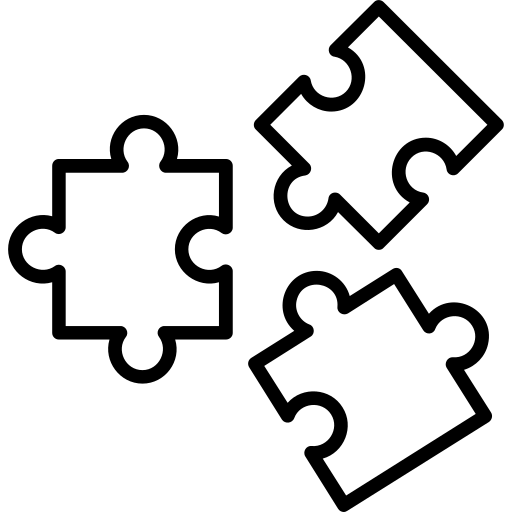
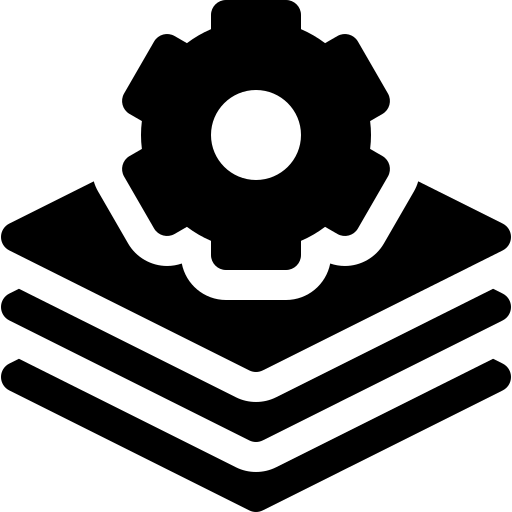
add details

diff --git a/main.tex b/main.tex
@@ -7,8 +7,9 @@
 % withoutsidebar
 \usepackage[utf8]{inputenc}
 \usepackage[default]{raleway}
+\usepackage{amsmath}
 \usepackage[margin=1cm, a4paper]{geometry}
-
+\usepackage{makecell}
 
 %------------------------------------------------------------------ Variablen
 
@@ -24,7 +25,6 @@
 
 \pagestyle{empty}
 \begin{document}
-
 
 \thispagestyle{empty}
 %-------------------------------------------------------------
@@ -48,7 +48,6 @@
 
 % 0.9,0.9,0.9 -- 0.8,0.8,0.8
 
-
 \footnotesize
 {\setasidefontcolour
     \flushright
@@ -56,34 +55,31 @@
         \roundpic{angelo.jpg}
     \end{center}
 
-    \bg{cvgreen}{white}{Biografia}\\[0.5em]
-
-    \bigskip
-
     \bg{cvgreen}{white}{Info} \\[0.5em]
     {\small
-        \textbf{Angelo Filaseta}\\
+    \textbf{Angelo Filaseta}\\
     }
     \vspace{0.5em}
     {\footnotesize
-        \icon{\faBirthdayCake}{cvgreen}{} 10 Dicembre 1998\\
-        \icon{\faEnvelopeO}{cvgreen}{} Via Chiaramonti 35 \\
-        \icon{\faMapMarker}{cvgreen}{} Cesena (FC) \\
-        \icon{\faPhone}{cvgreen}{} [phone redacted] \\
-        \icon{\faAt}{cvgreen}{} \protect\url{[email redacted]}
+    \icon{\faBirthdayCake}{cvgreen}{} 10 Dicembre 1998\\
+    \icon{\faEnvelopeO}{cvgreen}{} Via Chiaramonti 35 \\
+    \icon{\faMapMarker}{cvgreen}{} Cesena (FC) \\
+    \icon{\faPhone}{cvgreen}{} [phone redacted] \\
+    \icon{\faAt}{cvgreen}{} \protect\url{[email redacted]}
+    \icon{\faCar}{cvgreen}{} \textit{AM, B}
     }
+    \bigskip
 
+    \bg{cvgreen}{white}{Biografia}\\[0.5em]
+    Sono da sempre stato affascinato dalla tecnologia e la logica\\
+    Ho partecipato alla creazione e alla gestione di progetti in numerosi ambiti,
+    utilizzando una vasta gamma di tecnologie e linguaggi di programmazione.\\
+    Durante la mia permanenza in Università ho anche pubblicatoqualche articolo scientifico.\\
     \bigskip
 
     \bg{cvgreen}{white}{Area di Specializzazione} \\[0.5em]
+    Software Architecture ~•~ DevOps ~•~ Design Pattern ~•~ CI \& CD ~•~ Strong Typing ~•~ Object Oriented Programming (OOP) ~•~ Functional Programming ~•~
 
-    Privateering ~•~ Bucaneering ~•~ Parler ~•~ Rum
-
-    \bigskip
-
-    \bg{cvgreen}{white}{Interests}\\[0.5em]
-
-    \lorem
     \bigskip
 
     \bg{cvgreen}{white}{Tecnologie di punta}\\[0.5em]
@@ -97,8 +93,14 @@
     {\footnotesize
     \includegraphics[width=25px]{react}
     }
-    \vspace{4em}
+    \bigskip
 
+    \bg{cvgreen}{white}{Lingue}\\[0.5em]
+    \textbf{Italiano}: Madrelingua\\
+    \\
+    \textbf{Inglese}: B2
+
+    \vspace{4em}
     \infobubble{\faGithub}{cvgreen}{white}{AngeloFilaseta}
     \infobubble{\faLinkedin}{cvgreen}{white}{angelofilaseta}
     \phantom{turn the page}
@@ -109,59 +111,52 @@
 \switchcolumn
 
 \small
-\section*{Short Resumé}
+\section*{Esperienze Lavorative}
 
 \begin{tabular}{r| p{0.5\textwidth} c}
-    \cvevent{2023--2025}{Assegnista di Ricerca - Università di Bologna}{CESENA (FC)}{Emilia Romagna - Italia \color{cvred}}{
-        Ho partecipato a un progetto di ricerca mirato allo
+    \cvevent{\makecell{$\text{2023}\\ \Downarrow \\\text{2025}$}}
+    {\normalsize{Assegnista di Ricerca - Università di Bologna}}{CESENA (FC)}{Emilia Romagna - Italia \color{cvred}}
+    {Nel contesto del progetto \textit{WOOD 4.0}, la mia ricerca si è basata sullo
         \textbf{studio, progettazione e validazione di un prototipo di piattaforma digitale per l'aggiornamento remoto del software su macchine industriali.}
-    }{research.png}
+    }{lens.png}
     \\
-    \cvevent{2023--2025}{Professore a Contratto - Università di Bologna{\newline}PROGETTAZIONE E SVILUPPO DEL SOFTWARE}{CESENA (FC)}{Emilia Romagna - Italia \color{cvred}}{
-        Ho tenuto lezioni e laboratori sul paradigma di programmazione \textbf{Object-Oriented}, utilizzando \textbf{Java} come linguaggio di riferimento.
+    \cvevent{\makecell{$\text{2023}\\ \Downarrow \\\text{2025}$}
+    }{\normalsize{Professore a Contratto - Università di Bologna}{\newline}\footnotesize PROGETTAZIONE E SVILUPPO DEL SOFTWARE}{CESENA (FC)}{Emilia Romagna - Italia \color{cvred}}
+    {Lezioni e laboratori sul paradigma di programmazione \textbf{Object-Oriented}, utilizzando \textbf{Java} come linguaggio di riferimento.
         Ulteriori approfondimenti sono stati dedicati ai principali \textbf{pattern di progettazione}, al ciclo di vita del software e alle tecniche di sviluppo.
     }{teaching.png}
     \\
-    \cvevent{2023}{Full Stack Developer - SCM Group SPA}{Rimini (RN)}{Emilia Romagna - Italia \color{cvred}}{
-        Ho passato un breve periodo in azienda,
-        effettuando un'analisi di dominio approfondita per raccogliere dati e valutare i requisiti tecnici e operativi relativi al
-        progetto di ricerca che avrei iniziato nei mesi successivi.
-    }{puzzle.png}
+    \cvevent{2023}{\normalsize{Full Stack Developer - SCM Group SPA}}{Rimini (RN)}{Emilia Romagna - Italia \color{cvred}}
+    {Analisi di dominio, raccolta di dati e valutazione di requisiti tecnici relativi al progetto di ricerca \textit{WOOD 4.0}.}
+    {puzzle.png}
 \end{tabular}
-\vspace{1em}
+
 
 \section*{Titoli di Studio}
 \begin{tabular}{r | p{0.6\textwidth} c}
-    \cvdegree{110L}{
-        Laurea Magistrale in Ingegneria e Scienze Informatiche
-    }{
+    \cvdegree{110L}{\normalsize{Laurea Magistrale in Ingegneria e Scienze Informatiche}}{
         LM-32
     }{
         Università di Bologna
     }{
-        Cesena (FC) - Emilia Romagna
+        Cesena (FC) - Emilia Romagna - Italia
     }{
         degree-cap.png
     }\\
-    \cvdegree{97}{
-        Laurea Triennale in Ingegneria e Scienze Informatiche
-    }{
+    \cvdegree{97}{\normalsize{Laurea Triennale in Ingegneria e Scienze Informatiche}}{
         L-31
     }{
         Università di Bologna
-    }{
-        Cesena (FC) - Emilia Romagna
+    }{Cesena (FC) - Emilia Romagna - Italia
     }{
         degree-cap.png
     }\\
-    \cvdegree{100}{
-        Maturità Tecnica (Informatica)
-    }{
+    \cvdegree{100}{\normalsize{Maturità Tecnica (Informatica)}}{
         Diploma
     }{
         Istituto Tecnico Industriale ~•~ \emph{Don Luigi Orione}
     }{
-        Fano (PU) - Marche
+        Fano (PU) - Marche - Italia
     }{
         medal.png
     }
@@ -175,15 +170,9 @@
 
 \vspace{3em}
 
-\begin{minipage}[t]{0.3\textwidth}
-    \section*{Languages}
-    \begin{tabular}{l | ll}
-        \textbf{Italian} & C2 & {\phantom{x}\footnotesize Madrelingua} \\
-        \textbf{Inglese} & B2 & \pictofraction{\faCircle}{cvgreen}{3}{black!30}{1}{\tiny} \\
-    \end{tabular}
-\end{minipage}
 \begin{minipage}[t]{0.4\textwidth}
-    \section*{Programming}
+    \section*{Tecnologie}
+    Ho utilizzato una vasta gamma di tecnologie, qui riporto solo alcune delle principali:
     \begin{tabular}{r @{\hspace{0.5em}}l}
         \bg{skilllabelcolour}{white}{html, css} &  \barrule{0.4}{0.5em}{cvpurple}\\
         \bg{skilllabelcolour}{iconcolour}{\LaTeX} & \barrule{0.55}{0.5em}{cvgreen} \\